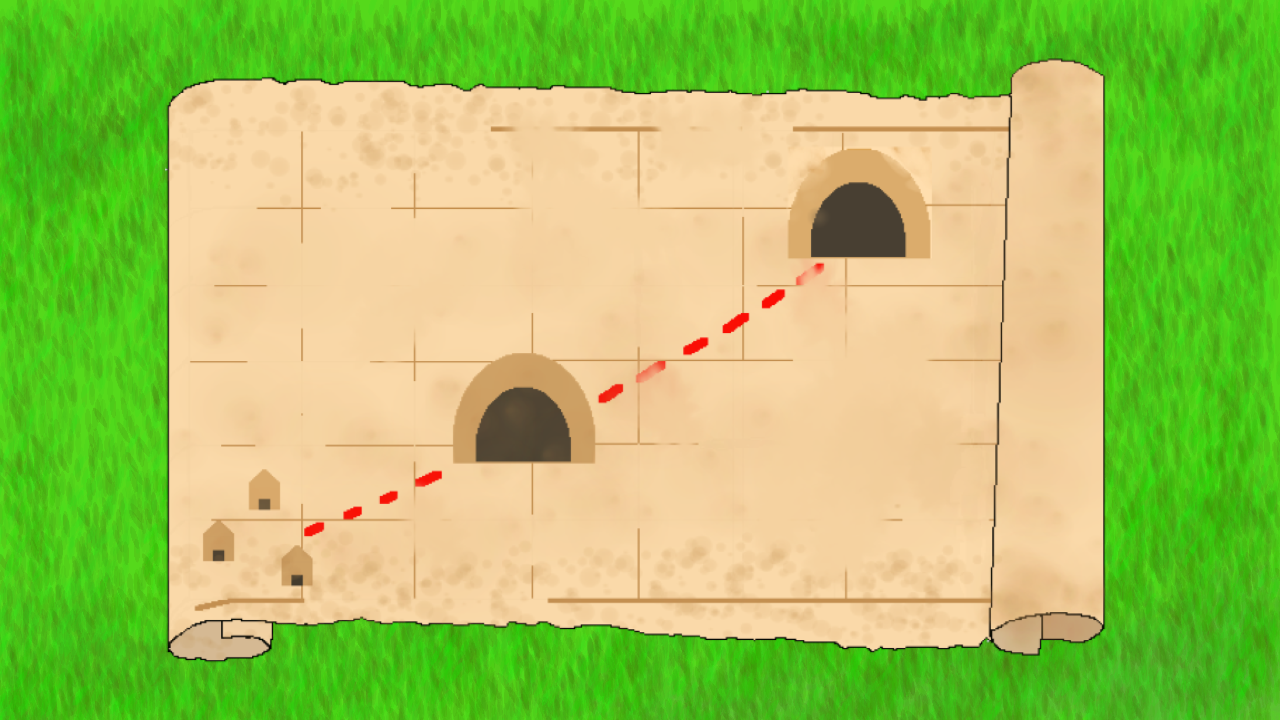
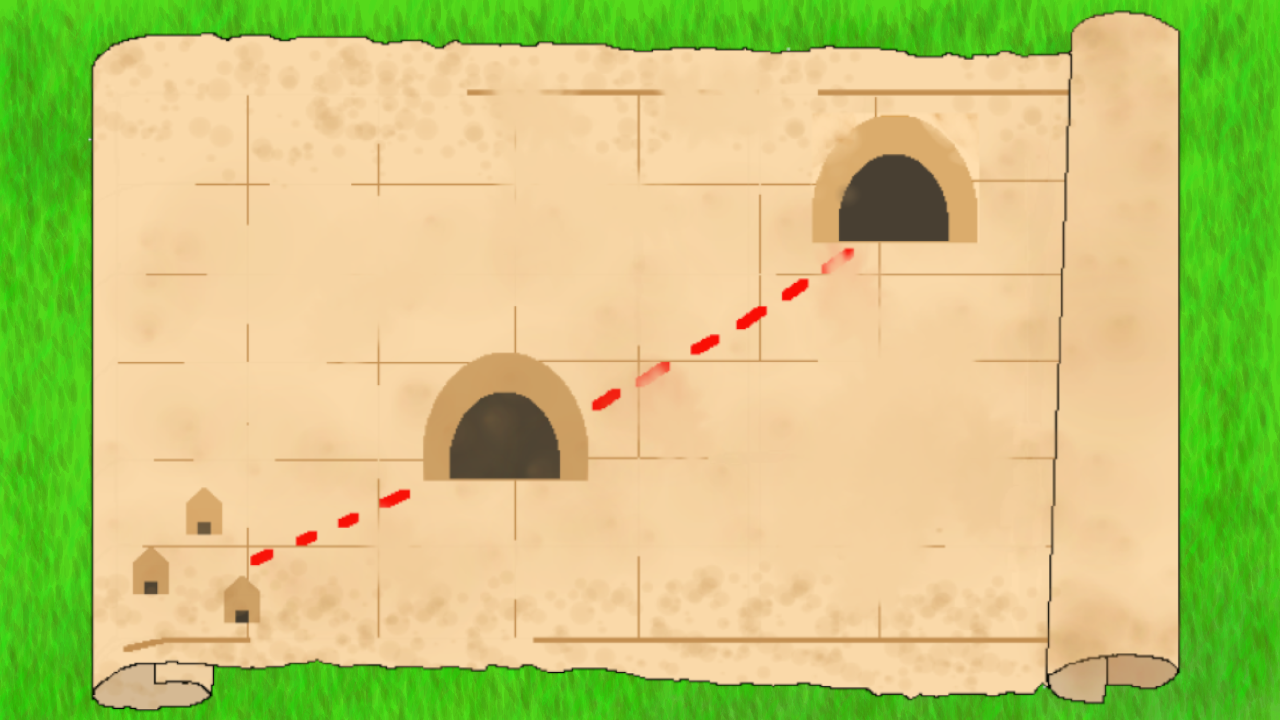
ステージ選択処理

diff --git a/GFF2-4B/GameMain.cpp b/GFF2-4B/GameMain.cpp
@@ -36,7 +36,7 @@ void GameMain::Update()
 ************************************************/
 void GameMain::Stage_Select_Init()
 {
-	g_player_x = 260, g_player_y = 550;
+	g_player_x = 200, g_player_y = 565;
 	g_stage = 0;
 	g_game_state = 0;
 	g_stage_select_image = LoadGraph("images/kusa.png"); 
@@ -45,9 +45,9 @@ void GameMain::Stage_Select_Init()
 void GameMain::Draw_Stage_Select()
 {
 	DrawGraph(0, 0, g_stage_select_image, TRUE);
-	DrawCircle(260, 550, 10, 0xff0000, TRUE);
-	DrawCircle(520, 455, 10, 0xff0000, TRUE);
-	DrawCircle(855, 250, 10, 0xff0000, TRUE);
+	DrawCircle(200, 565, 10, 0xff0000, TRUE);
+	DrawCircle(500, 475, 10, 0xff0000, TRUE);
+	DrawCircle(895, 235, 10, 0xff0000, TRUE);
 	
 	//DrawCircle(650, 300, 10, 0xff0000, TRUE);
 	//DrawCircle(800, 300, 10, 0xff0000, TRUE);
@@ -58,14 +58,14 @@ void GameMain::Update_Stage_Select()
 {
 	if ((g_rightkey_flg) && (!g_old_rightkey_flg) && (g_stage < 2))
 	{
-		if (g_stage == 0)g_player_x = 520, g_player_y = 455;
-		else if(g_stage == 1)g_player_x = 855, g_player_y = 250;
+		if (g_stage == 0)g_player_x = 500, g_player_y = 475;
+		else if(g_stage == 1)g_player_x = 895, g_player_y = 235;
 		g_stage++;
 	}
 	if ((g_leftkey_flg) && (!g_old_leftkey_flg) && (g_stage > 0))
 	{
-		if (g_stage == 2)g_player_x = 520, g_player_y = 455;
-		else if (g_stage == 1)g_player_x = 260, g_player_y = 550;
+		if (g_stage == 2)g_player_x = 500, g_player_y = 475;
+		else if (g_stage == 1)g_player_x = 200, g_player_y = 560;
 		g_stage--;
 	}
 	if (g_bkey_flg)g_game_state = 1, g_stage = 1,GameMain_Init();
